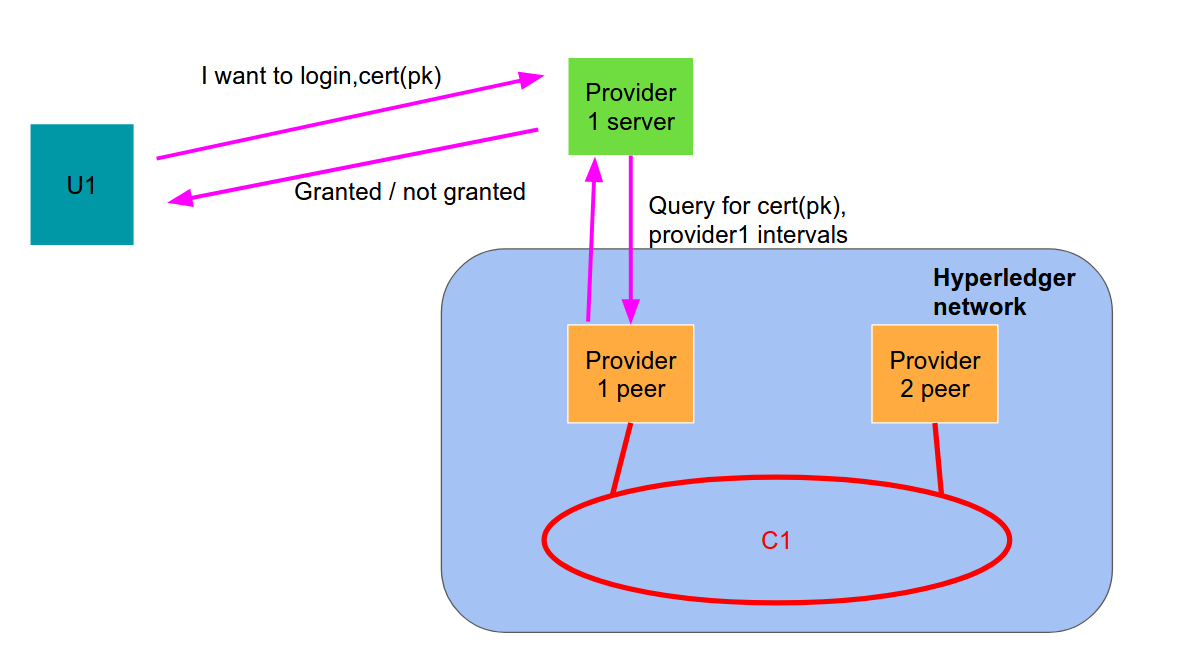
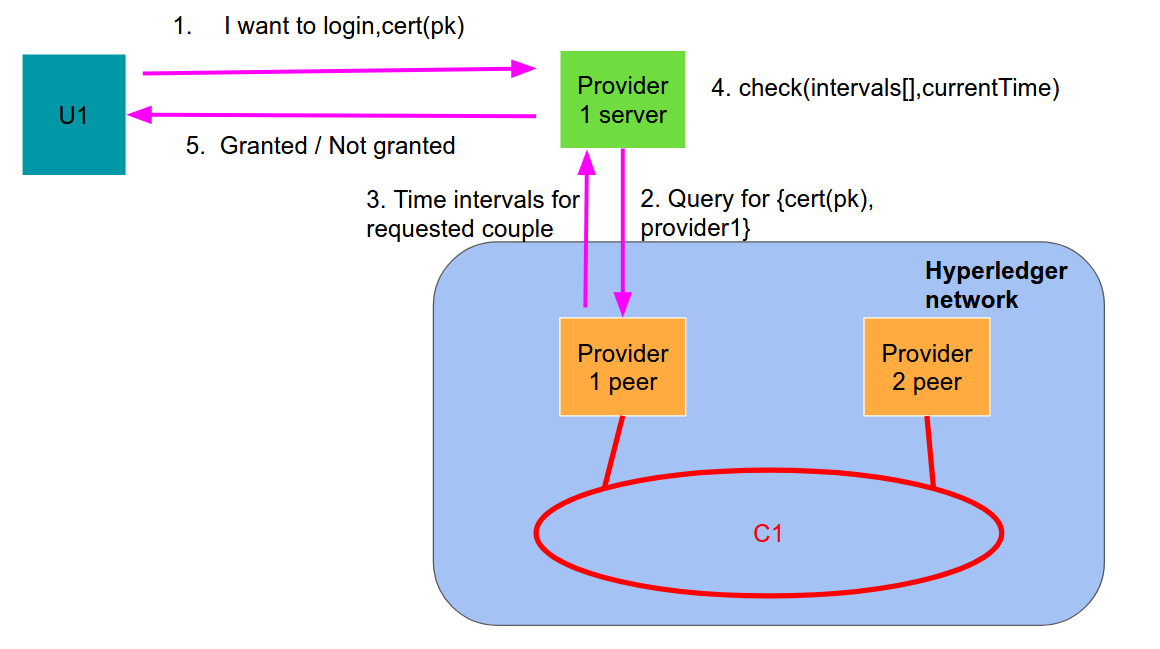
design modifications

diff --git a/docs/Design.md b/docs/Design.md
@@ -12,7 +12,7 @@ Then they will be able to rent access to other services belonging to the network
 Users will not be able to convert HyperCash into real money.
 
 ## Network design
-The network is composed by one application channel on which are deployed three chaincodes (one related to subscriptions, one related to money and one which controls the rent offers). Each service provider will have a peer which executes the three smart contracts (SCS, SCM and SCO respectively) and keeps an updated version of the three world states (WS, WM and WO). The endorsement policies are different based on the type of the transaction. Each provider will have also 1 ordering nodes, and they will reach consensus through Raft.
+The network is composed by one application channel on which are deployed three chaincodes (one related to subscriptions, one related to money and one which controls the rent offers). Each service provider will have a peer which executes the three smart contracts (SCS, SCM and SCO respectively) and keeps an updated version of the three world states (WS, WM and WO). The endorsement policies and the access control are different based on the type of the transaction. Each provider will have also 1 ordering node, and they will reach consensus through Raft.
 The user will connect to the network through a web app which is stored in the customer device. There he can check the state of its own wallet, issue a new offer, read the offer world state or rent a subscription.
 
 Example network with 2 SP and 2 users:
@@ -32,7 +32,7 @@ When a user wants to add an offer to the ledger it requests a write to the ledge
 Example of accept of offer by the user:
 ![Offer accept](../img/buy_schema.png "Offer accept")
 
-When a user wants to accept an offer from the ledger, it queries the offers smart contract and gets all the offers. Then it decides which one he wants and he sends on the channel for the provider to update the state.
+When a user wants to accept an offer from the ledger, it queries the offers smart contract and gets all the offers. Then it decides which one he wants and he sends it on the channel so that the provider can update the state.
 ## Application Design
 
 ### Service provider side
@@ -50,11 +50,8 @@ This will be an additional button (Like "login with google") that the user will 
 
 ### Client side (webapp)
 
-- Register to the network page
-The service provider will have to implement a register to the network page where users can generate their couple (sk,pk) and get a certificate that identifies them into the blockchain network.
-
 The client side webapp will handle the wallet of the user and provide a graphical interface in order connect to the blockchain and perform the operation specified in the network design.
-The application will also handle the payments to the blockchain network
+The application will also handle the payments to the blockchain.
 Operations:
 - retrieve all offers
 - accept an offer
@@ -77,7 +74,7 @@ The methods that needs to be implemented are: new subscription, split subscripti
 
 
 UserId | Provider | SubscriptionId | Duration
----- | ---- | ---- | ---- 
+---- | ---- | ---- | ----
 A | Netflick | 001 | [0: [01/01/2020 00.00,31/12/2020 12.59], 1: [...,...]]
 
 
@@ -102,6 +99,11 @@ UserId | Provider | SubscriptionId|startTime|endTime | price
 ---- | ---- | ---- | ---- | ---- | ----
 A|Netflick|001|07/07/2020 13.00 |07/07/2020 14.00 | 50 HC
 
+## Economic returns
+The use of the network will require the payment of a monthly fee for all the users. Moreover, each user can buy extra coins to rent subscriptions using real money.  Therefore, to prevent an excess of coin in the network, which would prevent the user from buying new ones, at each transaction is applied a tax.
+
+All the money collected by the previous means will be distributed to all the organization that partecipate to the network. The split could be equal for each company or could be based on the contribution of the service provider in the network (how many subscription are rented).
+
 ### Common payment design
 
 There will be a common payment account (bank account or ethereum account) where users will deposit their money when paying to the network.
@@ -109,15 +111,9 @@ In order to claim the assets the client will invoke a transaction where he will 
 
 ![Payment](../img/payments.png "Payment")
 
-## Economic returns
-The use of the network will require the payment of a monthly fee for all the users. Moreover, each user can buy extra coins to rent subscriptions using real money.  Therefore, to prevent an excess of coin in the network, which would prevent the user from buying new ones, at each transaction is applied a tax.
-
-All the money collected by the previous means will be distributed to all the organization that partecipate to the network. The split could be equal for each company or could be based on the contribution of the service provider in the network (how many subscription are rented).
-
 
 ## Improvements
 - enable cross device auth (crypted key on sp solution)
 - make only necessary data public
 - bidding system
 - signing of offer from user
-- common payments with ethereum?
